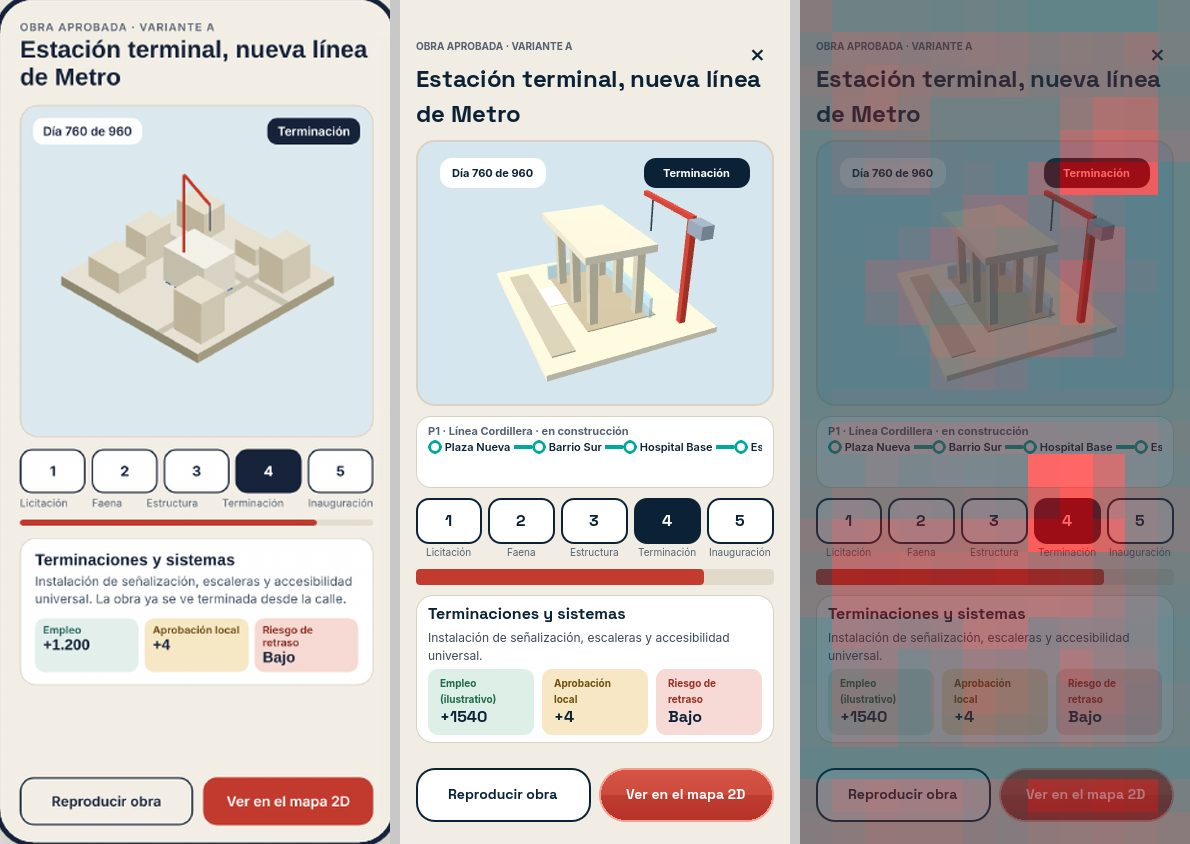
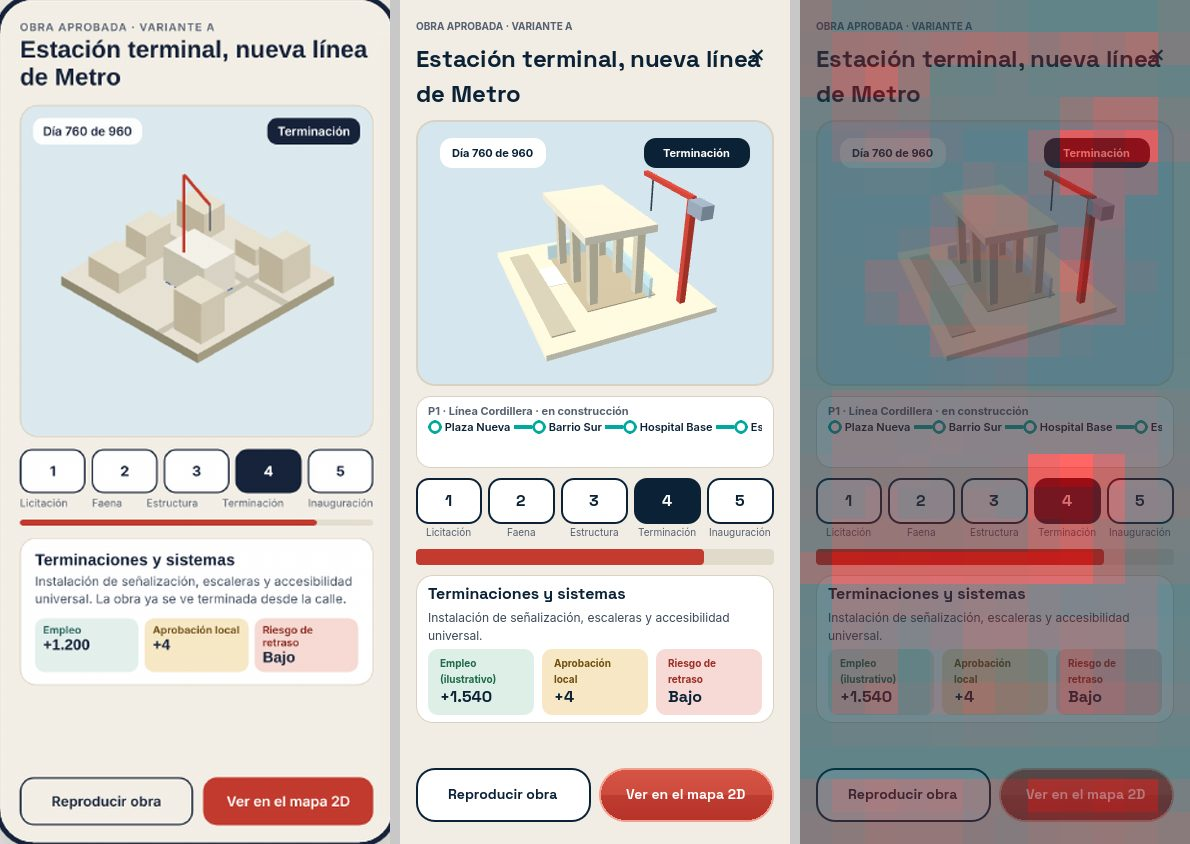
Hito y urbano por zona segura; cifras con punto de miles como en la maqueta
Tema.miles(1540) -> «1.540»: empleo del hito, inversión de la cartera y
de SECTRA, costo y capacidad fiscal del Comité. El hito de obra y el mapa
urbano empiezan según la zona segura (antes 40 px fijos). Frente a la
maqueta: hito 19,1 -> 17,8 %, urbano 21,8 -> 21,3 %.

Claude-Session: https://claude.ai/code/session_015HWWmkqdrhteNyoiHrGmho

Changed region(s): [[0.342, 0.0, 0.995, 0.8934], [0.684, 0.0308, 0.995, 0.2464]]

diff --git a/docs/DIFERENCIAS_MAQUETA.md b/docs/DIFERENCIAS_MAQUETA.md
@@ -196,4 +196,6 @@ En la votación: el contenido sube con la zona segura, el hemiciclo del Senado s
 
 En el mapa urbano, las fichas de líneas de Metro (una extensión sobre la maqueta) ocupaban dos filas sobre el mapa, y la hoja de obras se salía por abajo: su tercera fila quedaba cortada. Ahora las fichas van en una sola fila que se desliza de lado (`LeyendaMetro.compacta`) y las notas de líneas futuras y propias, bajo el mapa (`notas_aparte`). Todo cabe y los píxeles distintos bajan de 23,0 % a 21,8 %. El mapa urbano entra también a `RecorridoUI`, así que lo cubren las auditorías de textos y zonas táctiles.
 
+El hito de obra y el mapa urbano también usan la zona segura arriba (antes 40 px fijos). Las cifras grandes llevan punto de miles, como en la maqueta: «+1.540», «US$1.900 M» (`Tema.miles`). Hito: de 19,1 % a 17,8 %; urbano: de 21,8 % a 21,3 %.
+
 Reglas: todo el movimiento respeta Ajustes › «Animaciones y movimiento» y se apaga en modo headless, así que las pruebas miden siempre el estado final. El azar de las partículas es solo visual y no toca la semilla de la partida. Prueba propia: `tests/test_movimiento.gd`.

diff --git a/docs/comparacion/DIFERENCIA_MAQUETA.md b/docs/comparacion/DIFERENCIA_MAQUETA.md
@@ -10,5 +10,5 @@ comparar pantallas entre sí y ver si un cambio acerca o aleja. Imágenes: `dif_
 | dia | 39.2 % | 27.7 | inferior centro (y ≈ 640–672 px) | 76 |
 | nacion | 29.2 % | 25.0 | superior centro (y ≈ 96–128 px) | 104 |
 | votacion | 22.0 % | 19.0 | inferior izquierda (y ≈ 736–768 px) | 68 |
-| urbano | 21.8 % | 17.5 | superior centro (y ≈ 192–224 px) | 83 |
-| hito | 19.1 % | 15.1 | media derecha (y ≈ 512–544 px) | 83 |
+| urbano | 21.3 % | 16.7 | superior centro (y ≈ 192–224 px) | 88 |
+| hito | 17.8 % | 13.9 | media derecha (y ≈ 448–480 px) | 75 |
